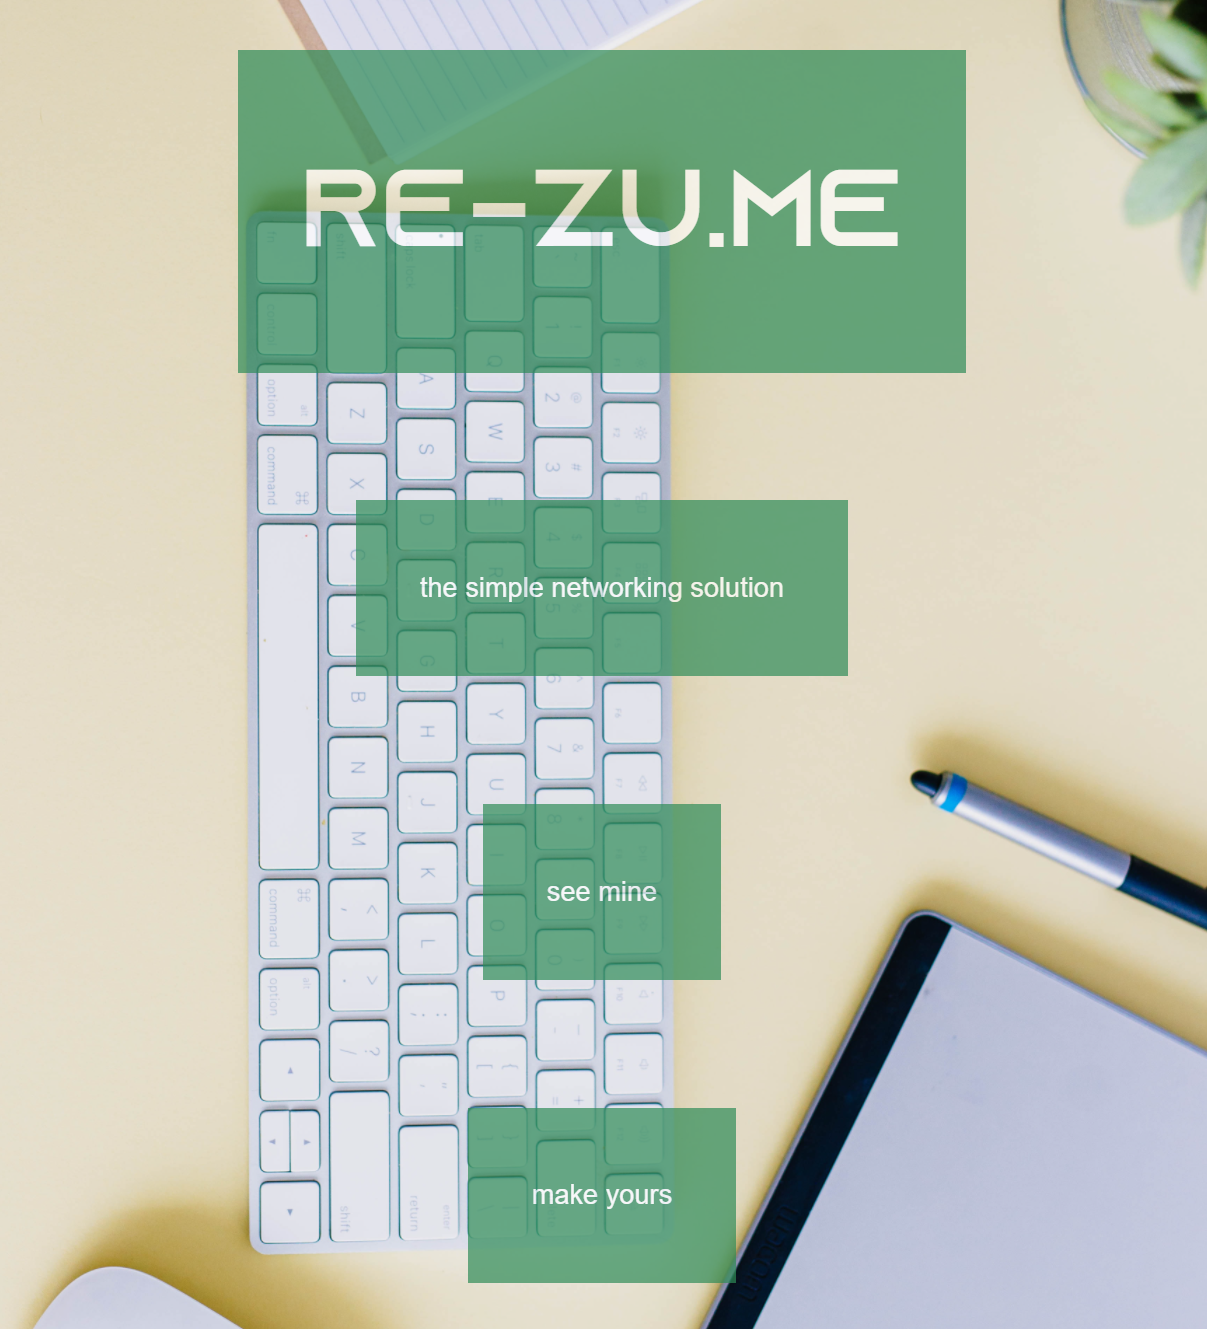
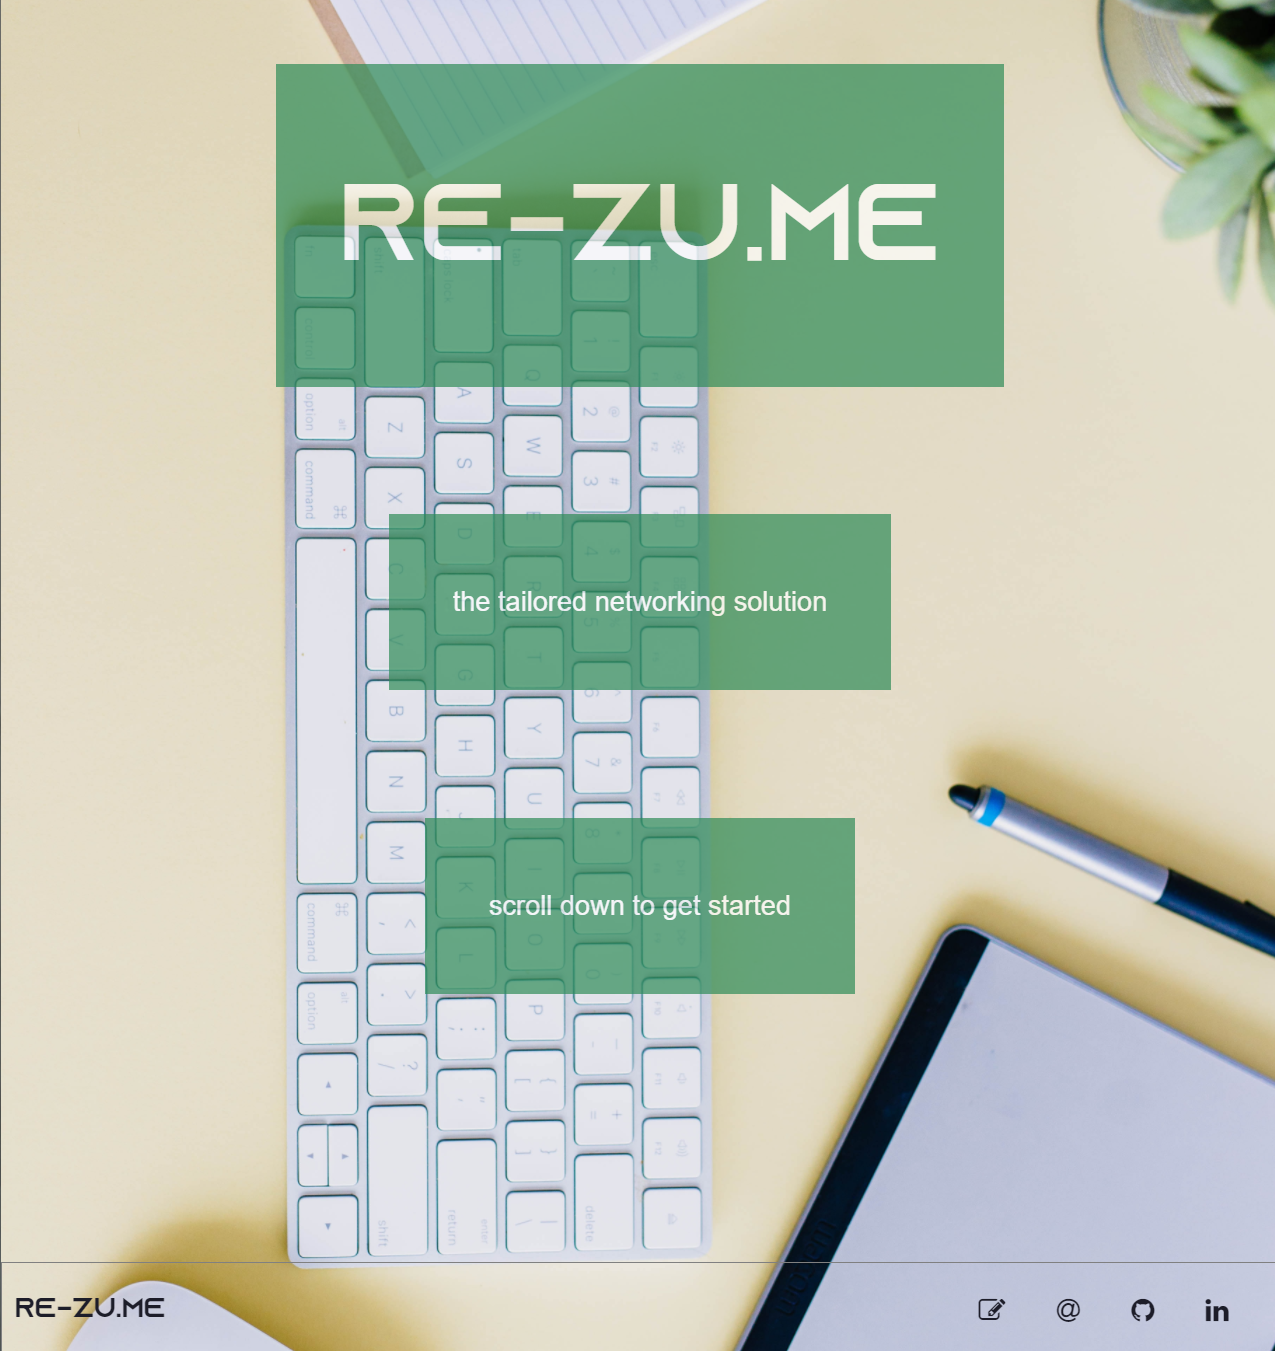
updating photos and menu logic

diff --git a/client/src/app/index.js b/client/src/app/index.js
@@ -1,6 +1,8 @@
 import React, {useState,useEffect} from 'react';
 import DOMPurify from 'dompurify'
 import { InView } from 'react-intersection-observer';
+import {Helmet} from 'react-helmet';
+
 
 import '../style/index.css';
 import "../style/prism.css";
@@ -248,6 +250,7 @@ const github = "https://github.com/kgrewal77";
           <div //className="slide" 
           className={`${props.last  ? " slide__bottom ":""} 
                       ${props.size === 'full' ? " slide__full ":""} 
+                      ${props.size === 'three-quarter' ? " slide__34 ":""} 
                       ${props.size === 'half' ? " slide__half ":""} 
                       slide`}
           style={{background:`${props.backcolor||'white'}`}}>
@@ -329,7 +332,7 @@ const github = "https://github.com/kgrewal77";
     } else {
       return (
         <div className="content">
-          {props.contentkey && <NavBar structkey={props.contentkey} 
+          {<NavBar structkey={props.contentkey} 
                                        rowtext={rowtext} 
                                        edit={props.edit} 
                                        setEdit={props.setEdit} 
@@ -374,8 +377,18 @@ const github = "https://github.com/kgrewal77";
     } ,[key,setStructure]);
 
     return (
-
-          <Content edit={edit} setEdit={setEdit} contentkey={key} rowdata={structure.rowdata}/>
+        <React.Fragment>
+          <Helmet>
+            <title> Rezume </title>
+            <meta property="og:title" content="Re-Zu.Me: Custom Resume Builder" data-rh="true"/>
+            <meta property="og:description" content="Tailor your Resume to each potential employer with Re-Zu.Me" data-rh="true"/>
+            <meta property="og:url" content="https://re-zu.me"/>
+            <meta
+                name="viewport"
+                content="minimum-scale=1, initial-scale=1, width=device-width"/>
+          </Helmet>
+          <Content edit={edit} setEdit={setEdit} contentkey={key||'home'} rowdata={structure.rowdata}/>
+        </React.Fragment>
       );
     }
 

diff --git a/client/src/style/index.css b/client/src/style/index.css
@@ -163,6 +163,11 @@ a.box:hover, a.box:active {
 	min-height:50vh !important;
 }
 
+.slide__34 {
+
+	min-height:75vh !important;
+}
+
 .namerow {
 	height: 95%;
     align-items: center;
